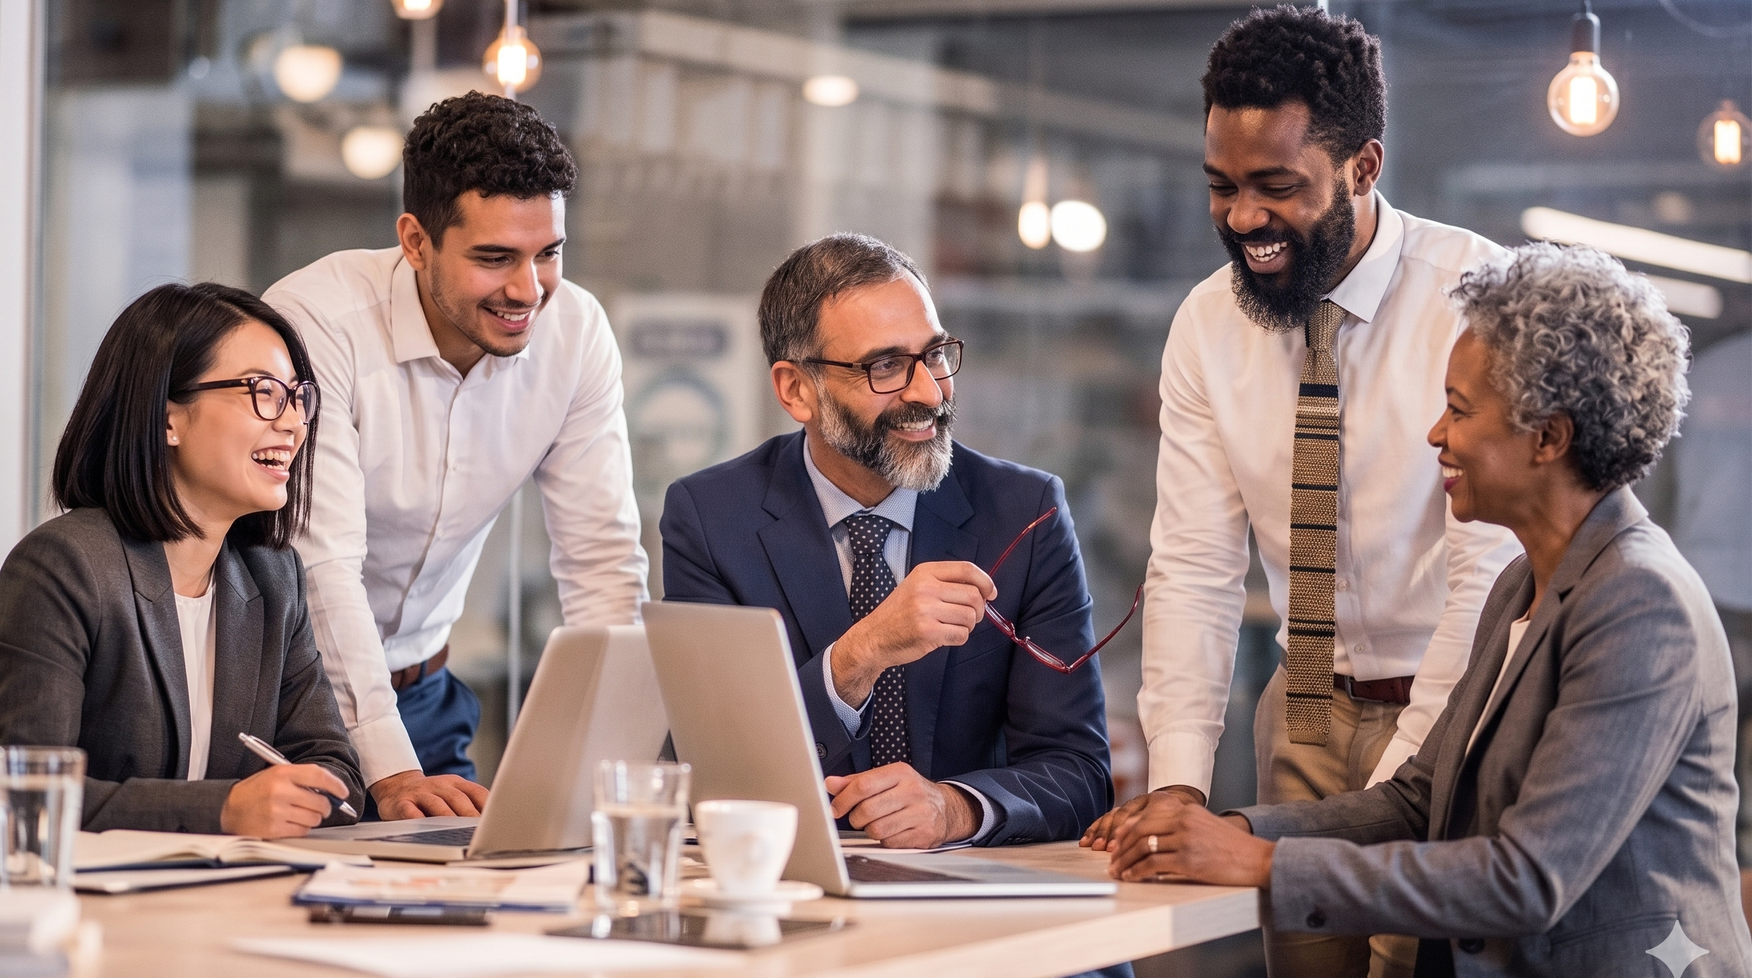
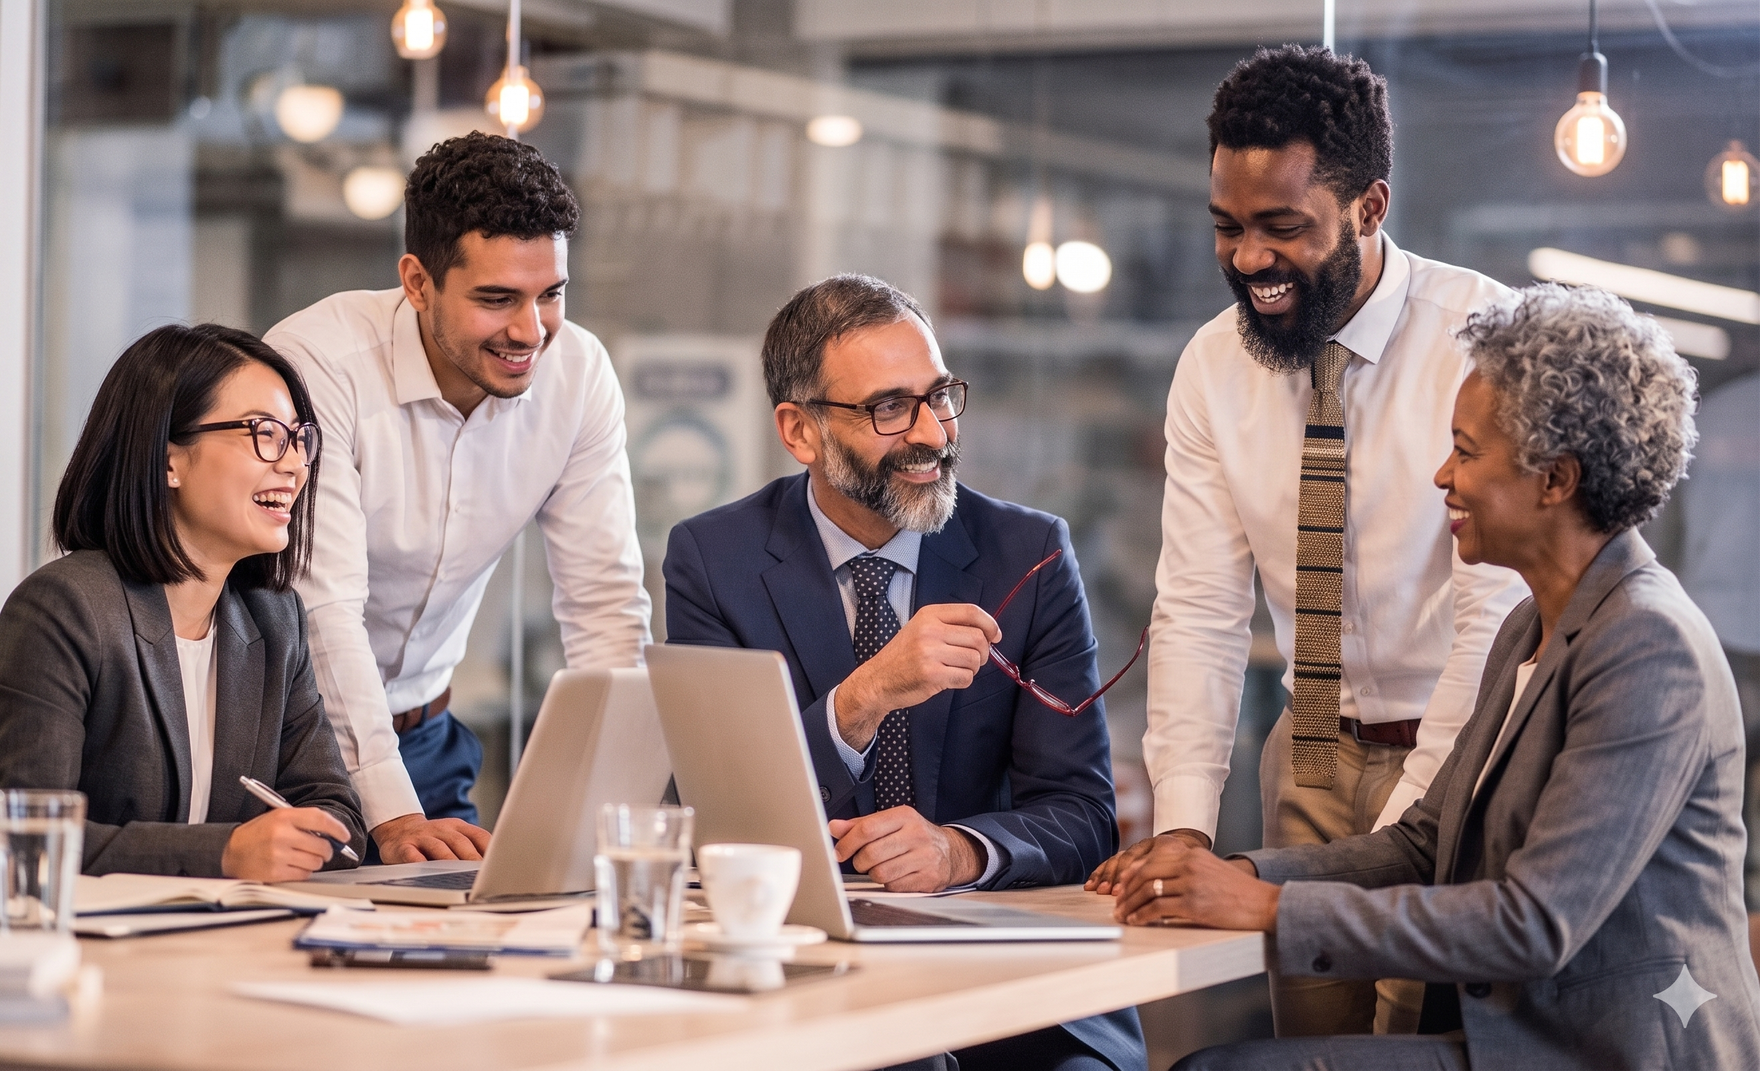
feat(landing): show the full hero image, widen the image column
The hero frame forced a 1376/768 box with object-fit: cover, cropping the photo.
Show it whole instead: re-export the source uncropped (1760x1071), let the frame
take the image's natural height (width:100%, height:auto), and give the image
column more room (hero-grid 1.05fr/1fr -> 1fr/1.2fr). Update the <img> intrinsic
dimensions to match (no layout shift).

diff --git a/web/landing.css b/web/landing.css
@@ -82,7 +82,7 @@ img { max-width: 100%; display: block; }
 
 /* ---------- hero ---------- */
 .hero { padding: 84px 0 64px; border-bottom: 1px solid var(--line); }
-.hero-grid { display: grid; grid-template-columns: 1.05fr 1fr; gap: 48px; align-items: center; }
+.hero-grid { display: grid; grid-template-columns: 1fr 1.2fr; gap: 48px; align-items: center; }
 .hero-pill {
   display: inline-flex; align-items: center; gap: 9px; font-family: var(--font);
   font-size: 12.5px; letter-spacing: .04em; font-weight: 500;
@@ -105,7 +105,7 @@ img { max-width: 100%; display: block; }
 .frame-bar { display: flex; align-items: center; gap: 10px; padding: 9px 12px; border-bottom: 1px solid var(--line); font-family: var(--mono); font-size: 11.5px; color: var(--faint); }
 .frame-bar .tick { width: 7px; height: 7px; border: 1px solid var(--line-2); border-radius: 2px; }
 .frame-bar .grow { flex: 1; }
-.hero-frame img { width: 100%; aspect-ratio: 1376 / 768; object-fit: cover; }
+.hero-frame img { display: block; width: 100%; height: auto; }
 .frame-foot { display: flex; gap: 16px; padding: 10px 14px; border-top: 1px solid var(--line); font-family: var(--mono); font-size: 11px; color: var(--faint); }
 .frame-foot .on { color: var(--signal-ink); }
 

diff --git a/web/index.html b/web/index.html
@@ -55,7 +55,7 @@
         </div>
         <div class="hero-frame">
           <div class="frame-bar"><span class="tick"></span> Live signal map <span class="grow"></span> Priority opportunities</div>
-          <img src="/assets/hero.png" alt="A sales team collaborating around a laptop in a modern office" loading="eager" width="1376" height="768">
+          <img src="/assets/hero.png" alt="A sales team collaborating around a laptop in a modern office" loading="eager" width="1760" height="1071">
           <div class="frame-foot"><span class="on">● 18 live signals</span><span>Priority-ranked</span><span>Matched to your products</span></div>
         </div>
       </div>